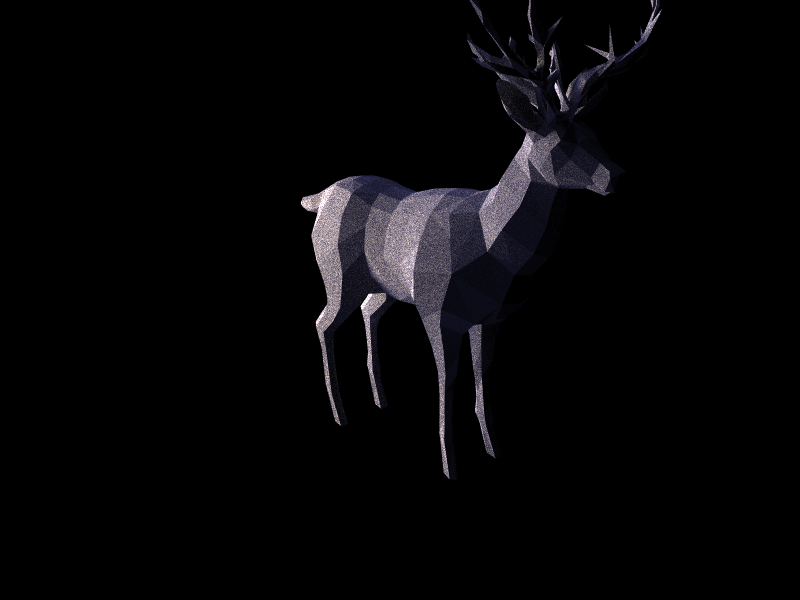
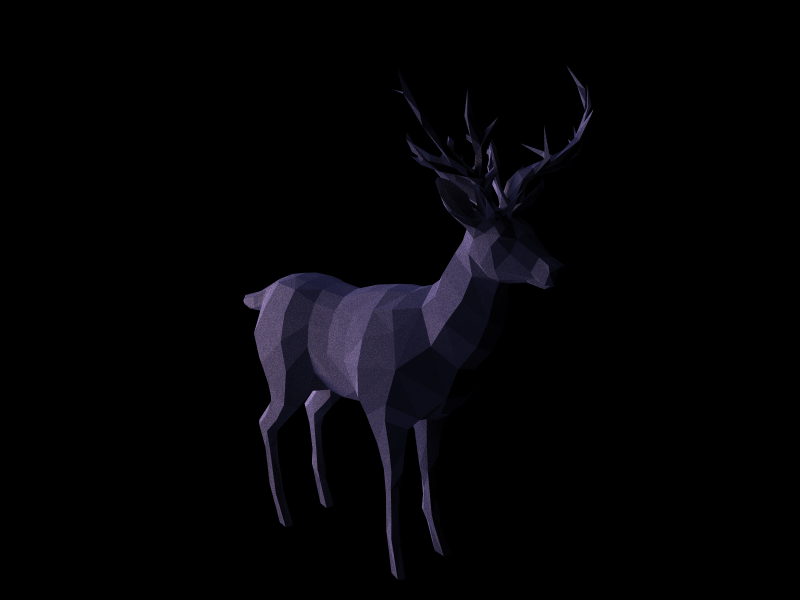
Better deer rendering

diff --git a/src/main.rs b/src/main.rs
@@ -80,7 +80,7 @@ fn add_lights(scene: &mut Scene) {
     let sun_light = Cuboid::new(Vector3::new(1.0, 1.0, 1.0));
     let sun_transform = Isometry::translation(4.0, 8.0, 0.0);
     let sun_data = ObjectData {
-        emission: Some((50.0f32, Point3::new(0.9, 0.8, 0.6))),
+        emission: Some((20.0f32, Point3::new(0.9, 0.7, 0.6))),
         ..Default::default()
     };
     scene
@@ -97,7 +97,7 @@ fn main() {
     add_lights(&mut scene);
 
     scene.perform_collision_phase();
-    let samples = scene.capture(2000u32);
+    let samples = scene.capture(5000u32);
 
     let mut image = RgbImage::new(samples.len() as u32, samples[0].len() as u32);
     let clamp = |x: f32| 1.0f32.min(0.0f32.max(x));

diff --git a/src/scene.rs b/src/scene.rs
@@ -15,7 +15,7 @@ impl Scene {
             camera: CameraBuilder::new()
                 .position(Isometry::face_towards(
                     &Point3::new(4.0, -4.0, 1.5),
-                    &Point3::new(0.0, 0.0, -0.5),
+                    &Point3::new(-0.5, 0.0, 0.0),
                     &Vector3::new(0.0, 0.0, 1.0),
                 ))
                 .screen_dimensions(Vector2::new(0.8, 0.6))
